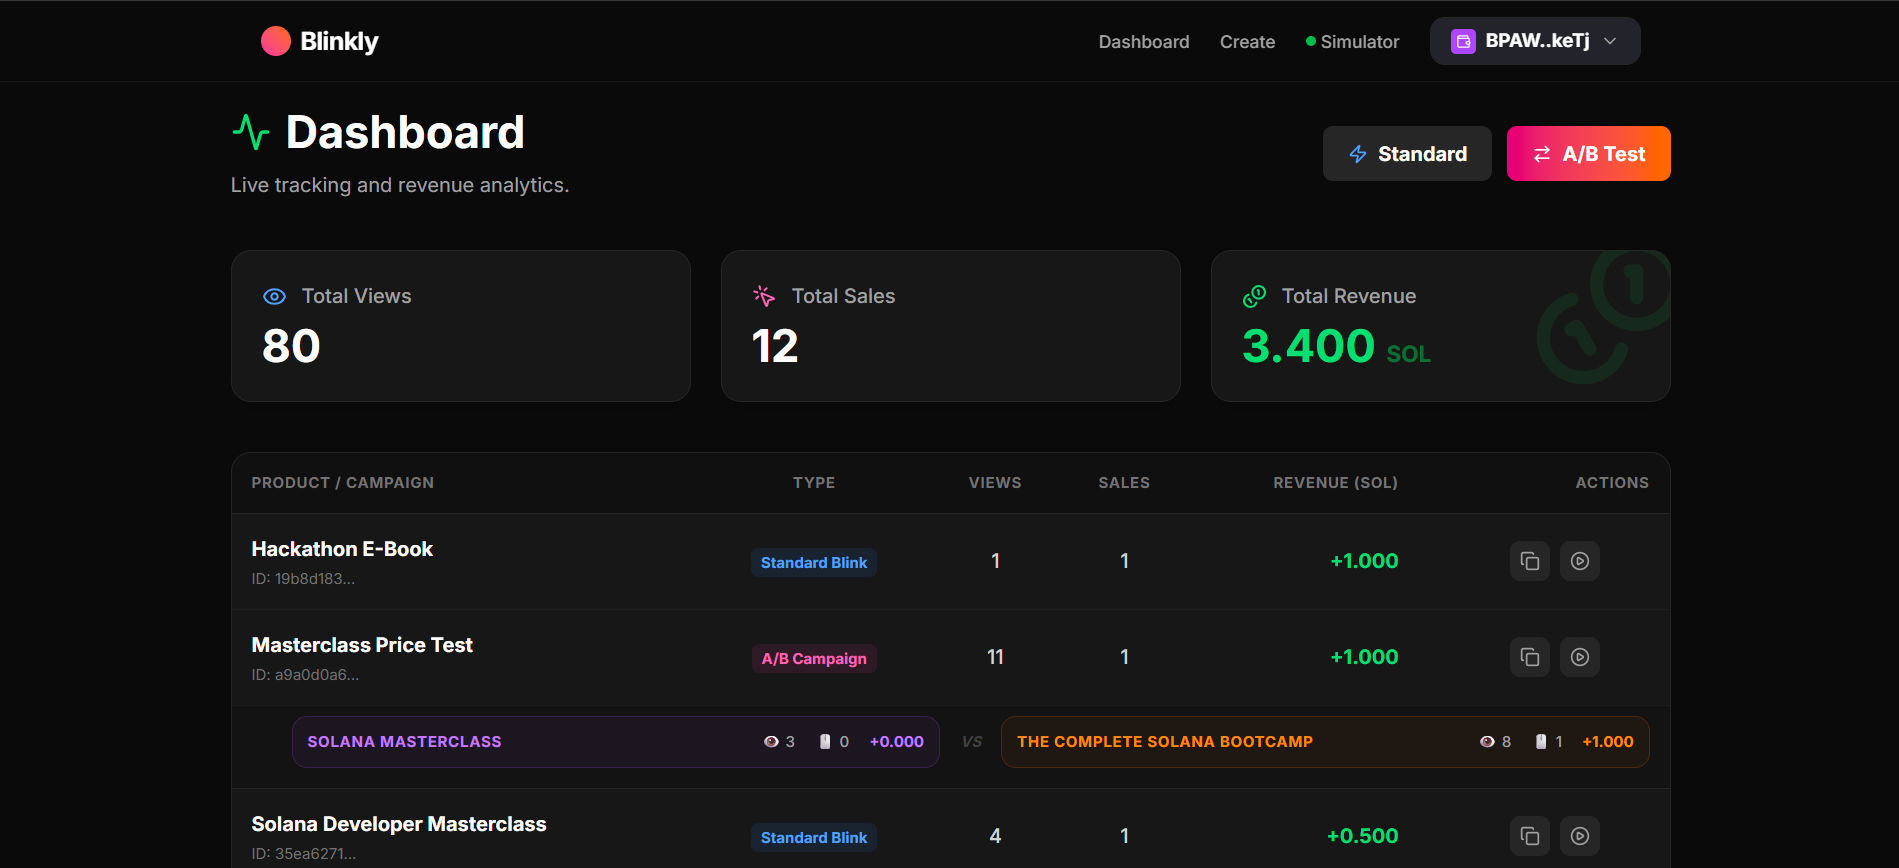
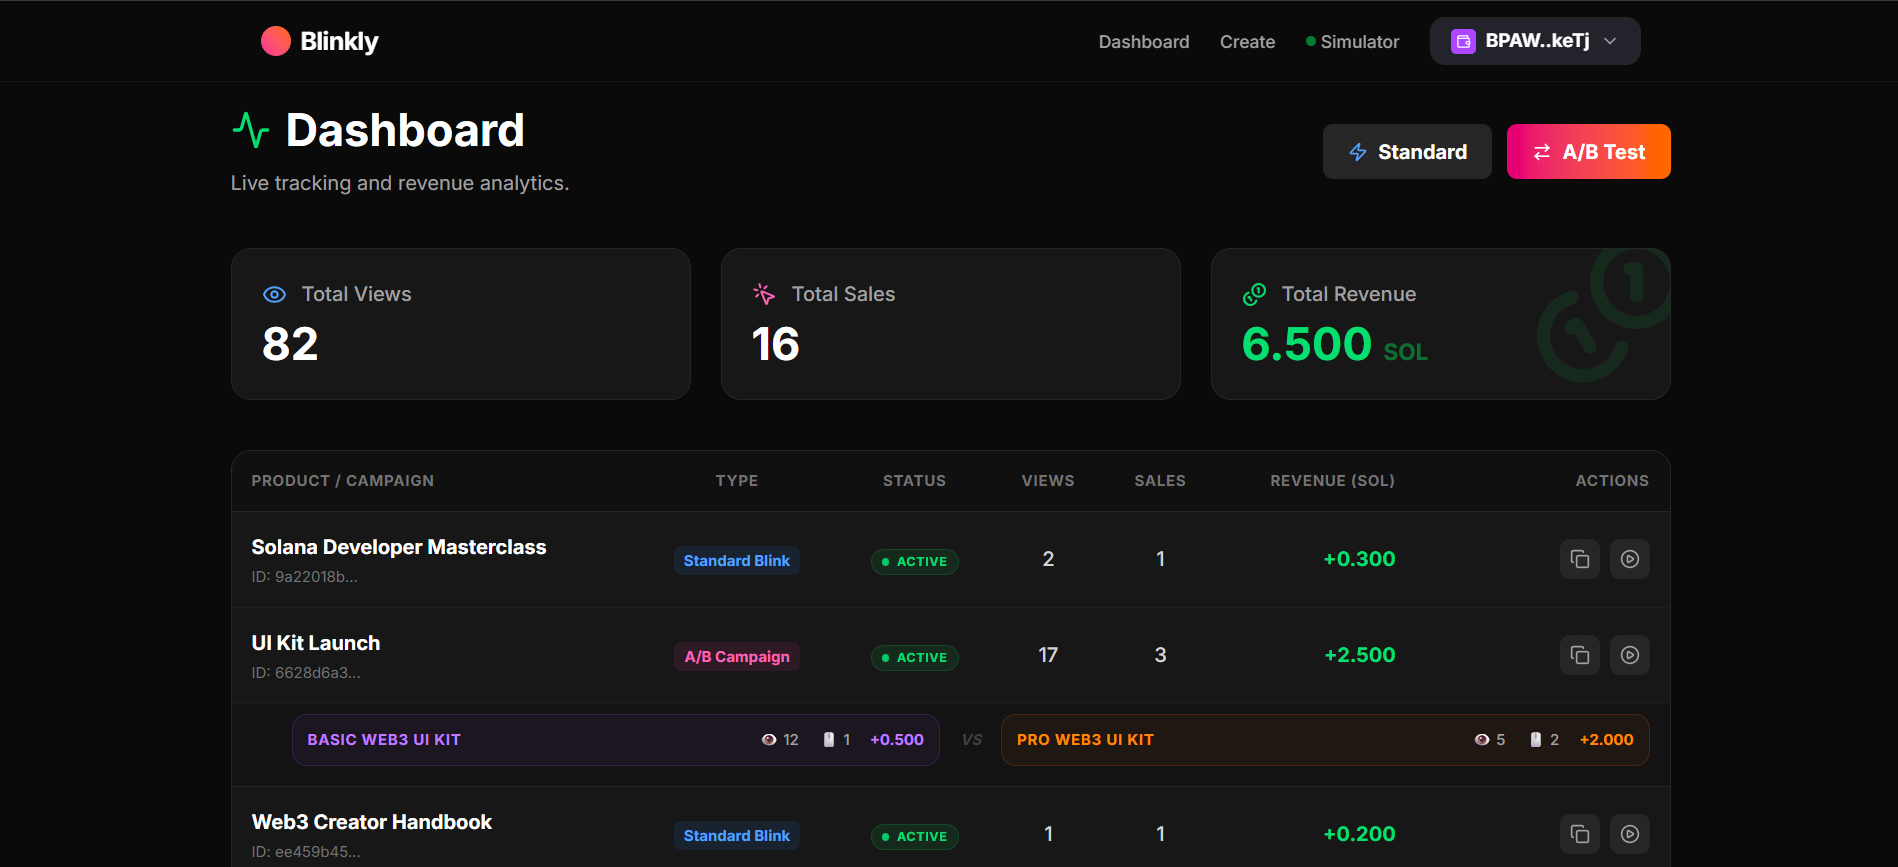
feat: added stop option , updated dashboard UI and API logic

diff --git a/app/dashboard/page.tsx b/app/dashboard/page.tsx
@@ -60,6 +60,7 @@ export default function Dashboard() {
           clicks: campClicks, 
           revenue: campRevenue, 
           created_at: camp.created_at,
+          is_stopped: camp.is_stopped,
           varA: {
             title: varA?.title || "Variant A",
             views: varA?.views || 0,
@@ -80,7 +81,9 @@ export default function Dashboard() {
           id: b.id, name: b.title, type: "Standard Blink", 
           views: b.views || 0, clicks: b.clicks || 0, 
           revenue: (b.clicks || 0) * (b.price_sol || 0), 
-          created_at: b.created_at 
+          created_at: b.created_at,
+          is_stopped: b.is_stopped
+          
         };
       }) || [];
 
@@ -97,19 +100,24 @@ export default function Dashboard() {
     alert("Action Link copied to clipboard!");
   };
 
-  const handleDelete = async (id: string, type: string) => {
-    const confirm = window.confirm(`Delete this ${type}? This will break active Twitter links.`);
+  const handleStop = async (id: string, type: string) => {
+    const confirm = window.confirm(`Stop this ${type}? The Twitter link will immediately become invalid, but your stats will be saved.`);
     if (!confirm) return;
 
     try {
       if (type === "A/B Campaign") {
-        await supabase.from("campaigns").delete().eq("id", id);
+        await supabase.from("campaigns").update({ is_stopped: true }).eq("id", id);
       } else {
-        await supabase.from("blinks").delete().eq("id", id);
+        await supabase.from("blinks").update({ is_stopped: true }).eq("id", id);
       }
-      setItems(items.filter(item => item.id !== id));
+      
+      
+      setItems(items.map(item => 
+        item.id === id ? { ...item, is_stopped: true } : item
+      ));
+      
     } catch (error) {
-      alert("Failed to delete.");
+      alert("Failed to stop campaign.");
       console.error(error);
     }
   };
@@ -182,6 +190,7 @@ export default function Dashboard() {
                   <tr className="bg-neutral-950/50 border-b border-neutral-800 text-xs uppercase tracking-wider text-neutral-500">
                     <th className="p-4 font-bold">Product / Campaign</th>
                     <th className="p-4 font-bold text-center">Type</th>
+                    <th className="p-4 font-bold text-center">Status</th>
                     <th className="p-4 font-bold text-center">Views</th>
                     <th className="p-4 font-bold text-center">Sales</th>
                     <th className="p-4 font-bold text-right">Revenue (SOL)</th>
@@ -200,39 +209,66 @@ export default function Dashboard() {
                       
                       return (
                         <Fragment key={item.id}>
+
                           {/* MAIN ROW */}
-                          <tr className="hover:bg-neutral-800/30 transition-colors group">
-                            <td className="p-4">
-                              <div className="font-bold text-white mb-1">{item.name || "Unnamed"}</div>
-                              <div className="text-xs text-neutral-500 font-mono">ID: {item.id.substring(0, 8)}...</div>
-                            </td>
-                            <td className="p-4 text-center">
-                              <span className={`text-xs font-bold px-2 py-1 rounded-md ${isCamp ? 'bg-pink-500/10 text-pink-400' : 'bg-blue-500/10 text-blue-400'}`}>
-                                {item.type}
-                              </span>
-                            </td>
-                            <td className="p-4 text-center font-medium text-neutral-300">{item.views}</td>
-                            <td className="p-4 text-center font-medium text-neutral-300">{item.clicks}</td>
-                            <td className="p-4 text-right font-bold text-green-400">+{item.revenue.toFixed(3)}</td>
-                            <td className="p-4 text-right">
-                              <div className="flex justify-end gap-2">
-                                <button onClick={() => copyToClipboard(actionUrl)} className="p-2 bg-neutral-800 hover:bg-neutral-700 rounded-lg text-neutral-400 hover:text-white transition-colors" title="Copy Link">
-                                  <Copy className="w-4 h-4" />
-                                </button>
-                                <Link href="/preview" className="p-2 bg-neutral-800 hover:bg-pink-600/20 rounded-lg text-neutral-400 hover:text-pink-400 transition-colors" title="Test in Simulator">
-                                  <PlayCircle className="w-4 h-4" />
-                                </Link>
-                                <button onClick={() => handleDelete(item.id, item.type)} className="p-2 bg-neutral-800 hover:bg-red-500/20 rounded-lg text-neutral-400 hover:text-red-500 transition-colors opacity-0 group-hover:opacity-100" title="Delete">
-                                  <Trash2 className="w-4 h-4" />
-                                </button>
-                              </div>
-                            </td>
-                          </tr>
+                       
+                         
+                     <tr className="hover:bg-neutral-800/30 transition-colors group">
+  
+
+                       <td className="p-4">
+                       <div className="font-bold text-white mb-1">{item.name || "Unnamed"}</div>
+                           <div className="text-xs text-neutral-500 font-mono">ID: {item.id.substring(0, 8)}...</div>
+                          </td>
+                              <td className="p-4 text-center">
+                                   <span className={`text-xs font-bold px-2 py-1 rounded-md ${isCamp ? 'bg-pink-500/10 text-pink-400' : 'bg-blue-500/10 text-blue-400'}`}>
+                                 {item.type}
+                                     </span>
+                                </td>
+
+  
+                               <td className="p-4 text-center">
+                          {item.is_stopped ? (
+                                   <span className="text-[10px] font-bold px-2 py-0.5 rounded-full bg-red-500/10 text-red-500 border border-red-500/20 tracking-wider">
+                                     STOPPED
+                               </span>
+                                  ) : (
+                           <span className="text-[10px] font-bold px-2 py-0.5 rounded-full bg-green-500/10 text-green-400 border border-green-500/20 tracking-wider inline-flex items-center gap-1.5">
+                                   <span className="w-1.5 h-1.5 bg-green-400 rounded-full animate-pulse"></span>
+                                        ACTIVE
+                                  </span>
+                                         )}
+                                   </td>
+                                   <td className="p-4 text-center font-medium text-neutral-300">{item.views}</td>
+                                      <td className="p-4 text-center font-medium text-neutral-300">{item.clicks}</td>
+                                        <td className="p-4 text-right font-bold text-green-400">+{item.revenue.toFixed(3)}</td>
+                                          <td className="p-4 text-right">
+                                         <div className="flex justify-end items-center gap-2">
+                                            <button 
+                                                 onClick={() => !item.is_stopped && handleStop(item.id, item.type)} 
+                                                    className={`p-2 rounded-lg transition-colors flex justify-center items-center min-w-[56px] ${
+                                                     item.is_stopped 
+                                                             ? 'invisible pointer-events-none' 
+                                                     : 'bg-neutral-800 hover:bg-yellow-500/20 text-neutral-400 hover:text-yellow-500 opacity-0 group-hover:opacity-100'
+                                                     }`} 
+                                                title="Stop Campaign"
+                                                        >
+                                                   <span className="text-xs font-bold">STOP</span>
+                                          </button>
+                                     <button onClick={() => copyToClipboard(actionUrl)} className="p-2 bg-neutral-800 hover:bg-neutral-700 rounded-lg text-neutral-400 hover:text-white transition-colors" title="Copy Link">
+                                 <Copy className="w-4 h-4" />
+                                    </button>
+                                   <Link href="/preview" className="p-2 bg-neutral-800 hover:bg-pink-600/20 rounded-lg text-neutral-400 hover:text-pink-400 transition-colors" title="Test in Simulator">
+                                   <PlayCircle className="w-4 h-4" />
+                                  </Link>
+                                  </div>
+                                   </td>
+                                    </tr>
 
                           {/*  A/B SPLIT COMPARISON SUB-ROW */}
                           {isCamp && (
                             <tr className="bg-neutral-950/30 border-b border-neutral-800">
-                              <td colSpan={6} className="p-4 pt-0">
+                              <td colSpan={7} className="p-4 pt-0">
                                 <div className="flex flex-col md:flex-row gap-4 items-center pl-0 md:pl-8 text-sm w-full mt-2">
                                   
                                   {/* Variant A Stats */}

diff --git a/app/api/actions/[blinkId]/route.ts b/app/api/actions/[blinkId]/route.ts
@@ -10,12 +10,15 @@ export async function GET(req: Request, { params }: { params: Promise<{ blinkId:
   try {
     const currentBlinkId = (await params).blinkId;
     const { data: blink, error } = await supabase.from("blinks").select("*").eq("id", currentBlinkId).single();
+    
     if (error || !blink) return new Response("Not found", { status: 404, headers });
 
-  
+    if (blink.is_stopped === true) {
+      return new Response(JSON.stringify({ message: "This campaign has ended." }), { status: 400, headers });
+    }
+
     await supabase.from("blinks").update({ views: (blink.views || 0) + 1 }).eq("id", blink.id);
 
-    
     const baseUrl = new URL(req.url).origin; 
 
     const payload: ActionGetResponse = {
@@ -24,12 +27,10 @@ export async function GET(req: Request, { params }: { params: Promise<{ blinkId:
       description: blink.description,
       label: `Buy for ${blink.price_sol} SOL`,
       links: {
-        
         actions: [{ label: `Buy for ${blink.price_sol} SOL`, href: `${baseUrl}/api/actions/${blink.id}`, type: "transaction" }]
       }
     };
     
-  
     return Response.json(payload, { headers });
   } catch (err) { 
     return new Response("Error", { status: 500, headers }); 
@@ -47,6 +48,11 @@ export async function POST(req: Request, { params }: { params: Promise<{ blinkId
 
     const { data: blink } = await supabase.from("blinks").select("*").eq("id", currentBlinkId).single();
     if (!blink) return new Response(JSON.stringify({ error: "Not found" }), { status: 404, headers });
+
+  
+    if (blink.is_stopped === true) {
+      return new Response(JSON.stringify({ error: "This campaign has ended." }), { status: 400, headers });
+    }
 
     // Build Transaction on Devnet
     const connection = new Connection(clusterApiUrl("devnet"));
@@ -77,7 +83,6 @@ export async function POST(req: Request, { params }: { params: Promise<{ blinkId
     return Response.json(payload, { headers });
 
   } catch (err) { 
-    
     console.error("POST Crash Details:", err); 
     
     return new Response(JSON.stringify({ error: "Transaction Error" }), { 

diff --git a/app/api/campaigns/[campaignId]/route.ts b/app/api/campaigns/[campaignId]/route.ts
@@ -1,5 +1,5 @@
 import { NextResponse } from "next/server";
- import { supabase } from "../../../lib/supabase"; 
+import { supabase } from "../../../lib/supabase"; 
 
 const headers = {
   "Access-Control-Allow-Origin": "*",
@@ -7,10 +7,8 @@ const headers = {
   "Access-Control-Allow-Headers": "Content-Type, Authorization, Content-Encoding, Accept-Encoding",
 };
 
-
 export async function GET(request: Request, context: { params: Promise<{ campaignId: string }> }) {
   try {
-    
     const params = await context.params;
     const targetId = params.campaignId;
 
@@ -22,6 +20,14 @@ export async function GET(request: Request, context: { params: Promise<{ campaig
       .single();
 
     if (campErr || !campaign) throw new Error("Campaign not found");
+
+    
+    if (campaign.is_stopped === true) {
+      return NextResponse.json(
+        { message: "This campaign has ended." }, 
+        { status: 400, headers }
+      );
+    }
 
     // 2. The 50/50 Coin Flip!
     const isVariantA = Math.random() < 0.5;
